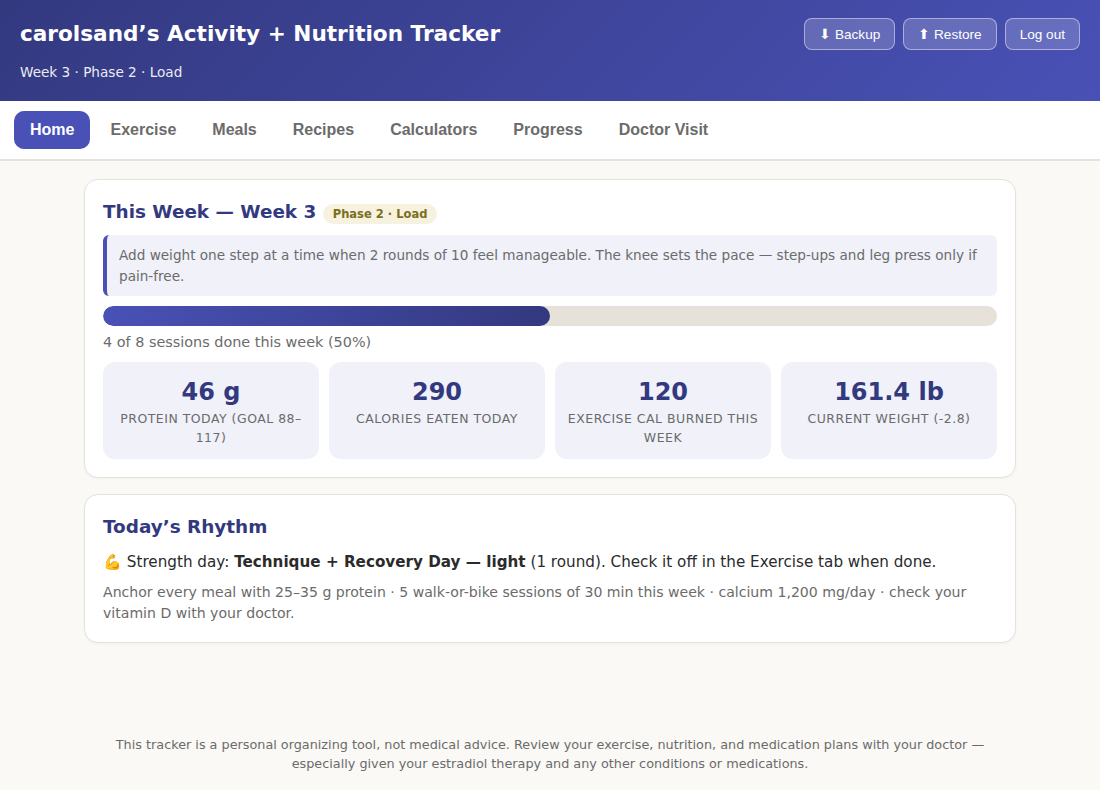
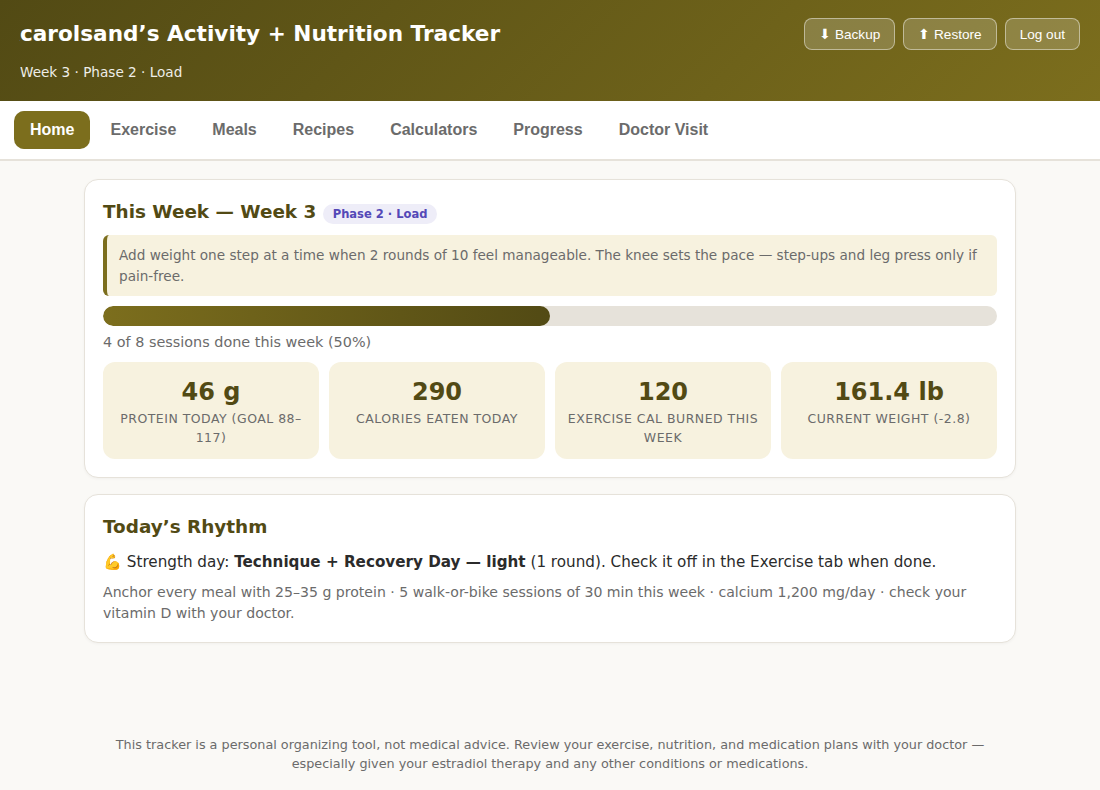
Flip palette: dark gold primary, indigo secondary
Reversed roles from the last pass per new request (#ceb831/#5448b7).
Raw #ceb831 tests at ~2:1 contrast for white text -- worse here since
primary now covers header/nav/buttons, more surface than secondary
had. Reused the accessible dark-gold companion from the previous pass
(#7c6e1d, 5.1:1) as the new primary, and the requested #5448b7 (7:1)
directly as secondary, since it needed no adjustment.

Updates README graphics and regenerates the real app screenshots.

diff --git a/strength-nutrition-tracker.html b/strength-nutrition-tracker.html
@@ -6,8 +6,8 @@
 <title>Activity + Nutrition Tracker</title>
 <style>
 :root{
-  --accent:#4951b6; --accent-dark:#33397f; --accent-light:#f0f1f9;
-  --plum:#7c6e1d; --plum-light:#f7f2df;
+  --accent:#7c6e1d; --accent-dark:#524a14; --accent-light:#f7f2df;
+  --plum:#5448b7; --plum-light:#eeedf8;
   --bg:#faf9f6; --card:#ffffff; --ink:#2b2b2b; --muted:#6b6b6b;
   --line:#e6e2da; --good:#2e7d32; --warn:#c62828; --gold:#c9a227;
 }
@@ -1069,9 +1069,9 @@ function drawWeightChart(){
   for(let g=0;g<=4;g++){ const v=lo+(hi-lo)*g/4, yy=y(v);
     ctx.beginPath(); ctx.moveTo(pad.l,yy); ctx.lineTo(W-pad.r,yy); ctx.stroke();
     ctx.fillText(v.toFixed(1), pad.l-6, yy+4); }
-  ctx.strokeStyle="#4951b6"; ctx.lineWidth=2.5; ctx.beginPath();
+  ctx.strokeStyle="#7c6e1d"; ctx.lineWidth=2.5; ctx.beginPath();
   ws.forEach((w,i)=>{ i?ctx.lineTo(x(i),y(w.lbs)):ctx.moveTo(x(i),y(w.lbs)); }); ctx.stroke();
-  ctx.fillStyle="#4951b6";
+  ctx.fillStyle="#7c6e1d";
   ws.forEach((w,i)=>{ ctx.beginPath(); ctx.arc(x(i),y(w.lbs),4,0,7); ctx.fill(); });
   ctx.fillStyle="#888"; ctx.textAlign="center";
   ctx.fillText(fmtDate(ws[0].date), x(0)+14, H-8);
@@ -1111,13 +1111,13 @@ function drawBarsChart(id, days, series, targetLine, emptyText){
 function drawProteinChart(){
   const days = last14();
   const vals = days.map(d=>S.meals.filter(m=>m.date===d).reduce((a,m)=>a+(+m.protein||0),0));
-  drawBarsChart("chartProtein", days, [{name:"Protein (g)", values:vals, color:"#4951b6"}], proteinRange()[0], "Log meals to see your daily protein here");
+  drawBarsChart("chartProtein", days, [{name:"Protein (g)", values:vals, color:"#7c6e1d"}], proteinRange()[0], "Log meals to see your daily protein here");
 }
 function drawCalsChart(){
   const days = last14();
   const eaten = days.map(d=>S.meals.filter(m=>m.date===d).reduce((a,m)=>a+(+m.cals||0),0));
   const burned = days.map(d=>S.activities.filter(a=>a.date===d).reduce((a,x)=>a+x.kcal,0));
-  drawBarsChart("chartCals", days, [{name:"Eaten",values:eaten,color:"#7c6e1d"},{name:"Burned (exercise)",values:burned,color:"#4951b6"}], null, "Log meals and activities to compare calories in vs. out");
+  drawBarsChart("chartCals", days, [{name:"Eaten",values:eaten,color:"#5448b7"},{name:"Burned (exercise)",values:burned,color:"#7c6e1d"}], null, "Log meals and activities to compare calories in vs. out");
 }
 function drawWorkoutsChart(){
   const n = Math.min(totalWeeks(), Math.max(currentWeek(),8));
@@ -1132,7 +1132,7 @@ function drawWorkoutsChart(){
   for(let g=0;g<=4;g++){ const v=hi*g/4, yy=y(v); ctx.beginPath(); ctx.moveTo(pad.l,yy); ctx.lineTo(W-pad.r,yy); ctx.stroke(); ctx.fillText(Math.round(v),pad.l-6,yy+4); }
   const slot=(W-pad.l-pad.r)/n;
   vals.forEach((v,i)=>{
-    ctx.fillStyle = (i+1===currentWeek()) ? "#c9a227" : "#4951b6";
+    ctx.fillStyle = (i+1===currentWeek()) ? "#c9a227" : "#7c6e1d";
     if (v>0) ctx.fillRect(pad.l+slot*i+slot*0.2, y(v), slot*0.6, (H-pad.b)-y(v));
     ctx.fillStyle="#888"; ctx.textAlign="center";
     if (n<=16 || i%2===0) ctx.fillText(labels[i], pad.l+slot*i+slot/2, H-8);
